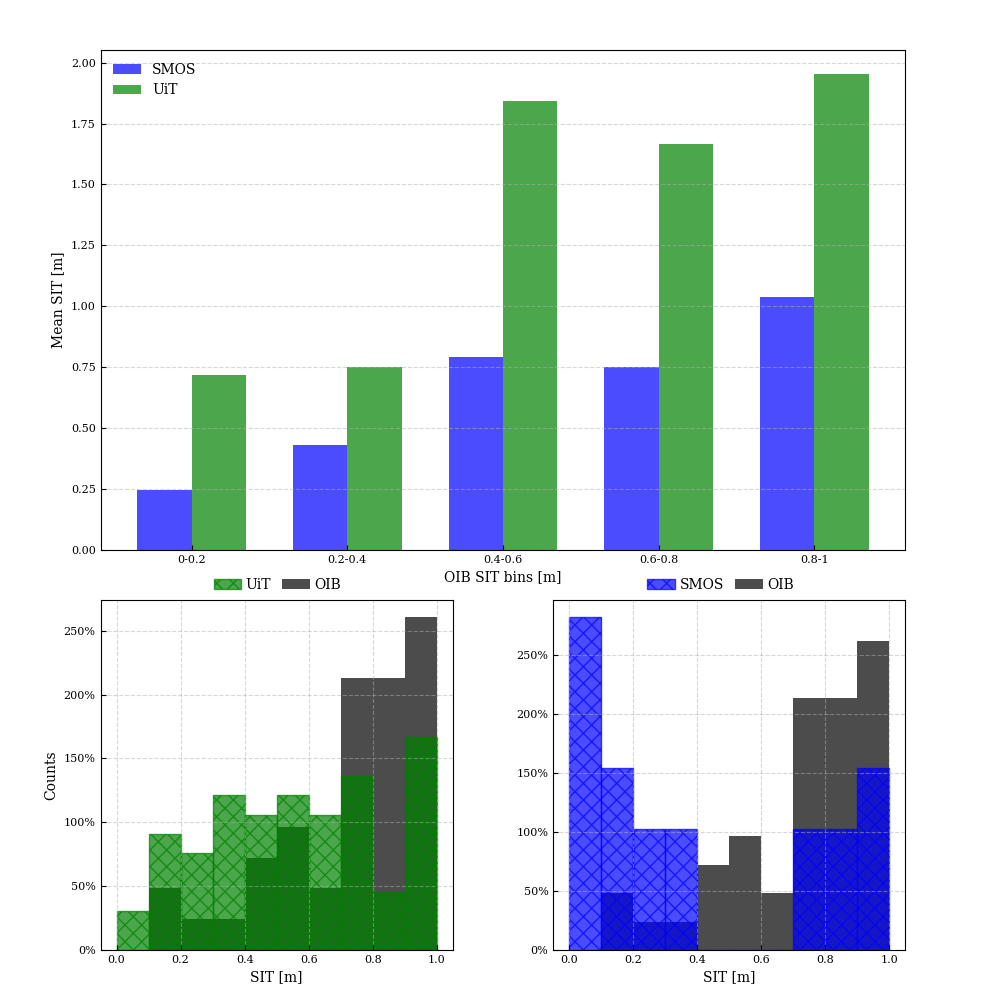
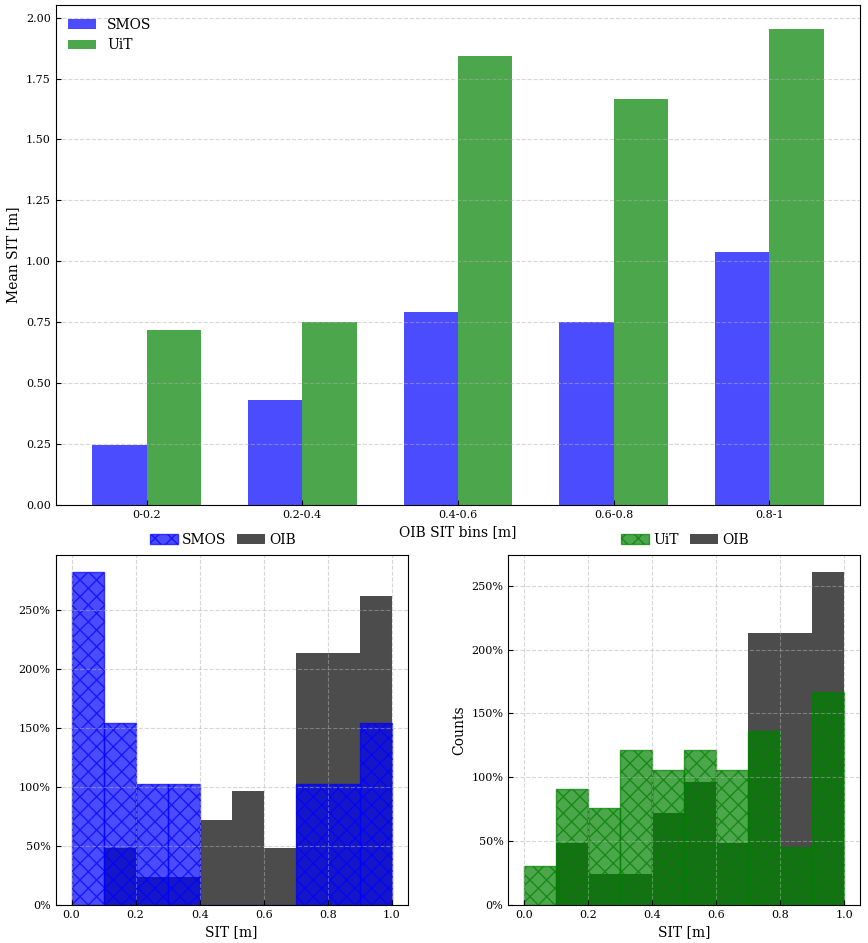
update of box scatter plot and histogram/bar

diff --git a/Data processing/Code/test/test_oib.py b/Data processing/Code/test/test_oib.py
@@ -399,16 +399,17 @@ def histogram_oib(data):
 def plot_sit(data, cryo_lat, cryo_lon):
 	oib_sit = data['oib']
 	
-	all_sit = np.concatenate(oib_sit)
-	
+	all_sit = oib_sit.flatten()
+	mask = (all_sit >= 0) & (all_sit <= 1)
+	all_sit = all_sit[mask]
 	plt.figure(figsize=(10, 6))
 	plt.hist(all_sit, bins=50, label='OIB SIT', color='black', alpha=0.7)
-	plt.axvspan(0, 1, color='red', alpha=0.3, label='Area of interest (0-1 m)')
+	#plt.axvspan(0, 1, color='red', alpha=0.3, label='Area of interest (0-1 m)')
 	plt.tick_params(axis='both', direction='in')
 	plt.xlim(0, 15)
 	plt.xlabel('Sea Ice Thickness (m)')
 	plt.ylabel('Observations (counts)')
-	plt.title('filtered OIB Sea Ice Thickness (25km grid)')
+	plt.title('filtered OIB + Quicklook SIT (25km grid)')
 	plt.legend()
 	plt.grid()
 	plt.show()
@@ -428,10 +429,13 @@ def plot_sit(data, cryo_lat, cryo_lon):
 				   linewidth=0.5,alpha=0.5,zorder=4)
 	ax.add_feature(cfeature.COASTLINE,color="black",linewidth=0.1,zorder=5)
 	ax.gridlines(draw_labels=True, color="dimgray", zorder=7)
- 
-	oib_sit = oib_sit.reshape(cryo_lat.shape)
-	mesh=ax.pcolormesh(cryo_lon, cryo_lat, all_sit, transform=ccrs.PlateCarree(), cmap='viridis', zorder=6)
-	plt.colorbar(mesh, ax=ax, label='Sea Ice Thickness (m)')
+	
+	cryo_lon = np.array(cryo_lon)
+	cryo_lat = np.array(cryo_lat)
+	#mesh=ax.pcolormesh(cryo_lon, cryo_lat, oib_sit, transform=ccrs.PlateCarree(), cmap='viridis', zorder=6)
+	#plt.colorbar(mesh, ax=ax, label='Sea Ice Thickness (m)')
+	scatter = ax.scatter(cryo_lon, cryo_lat, c=oib_sit, cmap='viridis', s=1, transform=ccrs.PlateCarree(), zorder=6)
+	plt.colorbar(scatter, ax=ax, label='Sea Ice Thickness (m)')
 	plt.title('OIB Sea Ice Thickness (25km grid)')
 	plt.show()
 	
@@ -502,25 +506,24 @@ def bar_hist_plot(data):
 	#oib_m_smos = oib_smos[range_mask_smos]
 	bin_edges=np.linspace(0,1,11)
  
-	# --- Bottom left plot: Histogram OIB vs Cryo ---
-	ax_left.hist(oib_m, bins=bin_edges, alpha=0.7, label='OIB', color='black', density=True)
-	ax_left.hist(cryo_m, bins=bin_edges, edgecolor='green', color="green", fill=True, linewidth=1, hatch='xx', alpha=0.7, label='UiT', density=True)
-	ax_left.tick_params(axis='both', direction='in')
-	ax_left.set_xlabel('SIT [m]')
-	ax_left.set_ylabel('Counts')
-	ax_left.yaxis.set_major_formatter(PercentFormatter(1))
-	ax_left.grid(alpha=0.5, linestyle='--')
-	ax_left.legend(loc='upper center', bbox_to_anchor=(0.5, 1.08), ncol=2, mode="expand", borderaxespad=0.0, handletextpad=0.3, frameon=False) 
-	
-
-	# --- Bottom right plot: Histogram OIB vs SMOS ---
+	# --- Bottom right plot: Histogram OIB vs Cryo ---
 	ax_right.hist(oib_m, bins=bin_edges, alpha=0.7, label='OIB', color='black', density=True)
-	ax_right.hist(smos_m, bins=bin_edges, edgecolor='blue', color="blue", fill=True, linewidth=1, hatch='xx', alpha=0.7, label='SMOS', density=True)
-	ax_right.set_xlabel('SIT [m]')
+	ax_right.hist(cryo_m, bins=bin_edges, edgecolor='green', color="green", fill=True, linewidth=1, hatch='xx', alpha=0.7, label='UiT', density=True)
 	ax_right.tick_params(axis='both', direction='in')
+	ax_right.set_xlabel('SIT [m]')
+	ax_right.set_ylabel('Counts')
 	ax_right.yaxis.set_major_formatter(PercentFormatter(1))
 	ax_right.grid(alpha=0.5, linestyle='--')
-	ax_right.legend(loc='upper center', bbox_to_anchor=(0.5, 1.08), ncol=2, mode="expand", borderaxespad=0.0, handletextpad=0.3, frameon=False)
+	ax_right.legend(loc='upper center', bbox_to_anchor=(0.5, 1.08), ncol=2, mode="expand", borderaxespad=0.0, handletextpad=0.3, frameon=False) 
+	
+	# --- Bottom left plot: Histogram OIB vs SMOS ---
+	ax_left.hist(oib_m, bins=bin_edges, alpha=0.7, label='OIB', color='black', density=True)
+	ax_left.hist(smos_m, bins=bin_edges, edgecolor='blue', color="blue", fill=True, linewidth=1, hatch='xx', alpha=0.7, label='SMOS', density=True)
+	ax_left.set_xlabel('SIT [m]')
+	ax_left.tick_params(axis='both', direction='in')
+	ax_left.yaxis.set_major_formatter(PercentFormatter(1))
+	ax_left.grid(alpha=0.5, linestyle='--')
+	ax_left.legend(loc='upper center', bbox_to_anchor=(0.5, 1.08), ncol=2, mode="expand", borderaxespad=0.0, handletextpad=0.3, frameon=False)
 
 	plt.show()
 	
@@ -541,10 +544,13 @@ def box_plot(data):
 	cryo = cryo_sit.flatten()
 
 	# Handle NaNs
-	valid_mask = ~np.isnan(oib) & ~np.isnan(cryo) & ~np.isnan(smos)
-	oib, cryo, smos = oib[valid_mask], cryo[valid_mask], smos[valid_mask]
+	nan_mask = ~np.isnan(oib) & ~np.isnan(smos) & ~np.isnan(cryo)
+	oib, smos, cryo = [arr[nan_mask] for arr in (oib, smos, cryo)]
 	
 	#smos_mask = (smos >= 0) & (smos <= 1)
+	#cryo_mask = (cryo >= 0) & (cryo <= 1.4)
+	#cryo = cryo[cryo_mask]
+	#oib_c = oib[cryo_mask]
 	#smos = smos[smos_mask]
 	#oib_smos = oib[smos_mask]
  
@@ -553,6 +559,7 @@ def box_plot(data):
 	for i in range(len(bins) - 1):
 		bin_mask = (oib >= bins[i]) & (oib < bins[i + 1])
 		#bin_mask_smos = (oib_smos >= bins[i]) & (oib_smos < bins[i+1])
+		#bin_mask_cryo = (oib_c >= bins[i]) & (oib_c < bins[i + 1])
 		binned_oib_cryo_data.append(cryo[bin_mask])
 		binned_oib_smos_data.append(smos[bin_mask])
   
@@ -565,25 +572,32 @@ def box_plot(data):
 	ax2 = fig.add_axes([2 * gap + box_width, 0.2, box_width, 0.6])
 
 	# Left box plot
-	ax1.boxplot(binned_oib_cryo_data, labels = bin_labels, medianprops=dict(color='black'), patch_artist=True, showfliers=False, boxprops=dict(facecolor='lightgray', alpha=0.6))
+	ax1.boxplot(binned_oib_cryo_data, labels = bin_labels, medianprops=dict(color='black'), meanprops=dict(color="#f7022a"), showmeans=True, meanline=True, patch_artist=True, showfliers=False, boxprops=dict(facecolor='lightgray', alpha=0.6))
+	ax1.plot([], [], "--", linewidth=1, color = "#f7022a", label = "Mean")
+	ax1.plot([], [], "-", linewidth=1, color = "black", label = "Median")
+ 
 	# scatter 
 	for i, data in enumerate(binned_oib_cryo_data):
 		x = np.random.normal(i + 1, 0.05, size=len(data))
-		ax1.scatter(x, data, color='green', alpha=0.7, label='UiT', edgecolor="none", linewidth=0.)
+		ax1.scatter(x, data, color='green', alpha=0.7, edgecolor="none", linewidth=0.)
 	ax1.set_ylabel('UiT SIT [m]')
 	ax1.set_xlabel('OIB SIT bins [m]')
 	ax1.tick_params(axis='both', direction='in')
+	ax1.legend(frameon=False, loc='upper left', bbox_to_anchor=(0.0, 1.08), ncol=2, borderaxespad=0.0, handletextpad=0.3)
 	
 	
 	# Right box plot
 	#ax2.boxplot(binned_oib_smos_data, labels = bin_labels, medianprops=dict(color='black'), patch_artist=True, showfliers=False, boxprops=dict(facecolor='lightgray', alpha=0.6))
-	ax2.boxplot(binned_oib_smos_data, labels = bin_labels, showmeans=True, meanline=True, patch_artist=True, showfliers=False, boxprops=dict(facecolor='lightgray', alpha=0.6))
+	ax2.boxplot(binned_oib_smos_data, labels = bin_labels, medianprops=dict(color='black'), showmeans=True, meanline=True, meanprops=dict(color="#f7022a"), patch_artist=True, showfliers=False, boxprops=dict(facecolor='lightgray', alpha=0.6))
+	ax2.plot([], [], "--", linewidth=1, color = "#f7022a", label = "Mean")
+	ax2.plot([], [], "-", linewidth=1, color = "black", label = "Median")
 	for i, data in enumerate(binned_oib_smos_data):
 		x = np.random.normal(i + 1, 0.05, size=len(data))
-		ax2.scatter(x, data, color='blue', alpha=0.7, label='SMOS', edgecolor="none", linewidth=0.)
+		ax2.scatter(x, data, color='blue', alpha=0.7, edgecolor="none", linewidth=0.)
 	ax2.set_ylabel('SMOS SIT [m]')
 	ax2.set_xlabel('OIB SIT bins [m]')
 	ax2.tick_params(axis='both', direction='in')
+	#ax2.legend(frameon=False, loc='upper left', bbox_to_anchor=(0.5, 1.08), ncol=2, borderaxespad=0.0, handletextpad=0.3)
 
 	# Add grid lines
 	ax1.grid(axis='y', linestyle='--', alpha=0.5)
@@ -620,8 +634,9 @@ def heat_map(data):
 	plt.xlabel('OIB SIT bins [m]')
 	plt.show()
 	
-	
-
+def stat_matrics(data):
+    pass
+    
 	
 
 
@@ -636,8 +651,8 @@ if __name__ == "__main__":
 	
 	#plot_flight_paths_all(data)
 	#histogram_oib(data)
-	plot_sit(resampled_data, resampled_data['uit'][0], resampled_data['uit'][1])
+	#plot_sit(resampled_data, data['uit']['lat'], data['uit']['lon'])
  
 	#bar_hist_plot(resampled_data)
-	box_plot(resampled_data)
-	#heat_map(resampled_data)
+	#box_plot(resampled_data)
+	heat_map(resampled_data)

diff --git a/Data processing/Code/Validation code/get_operation_icebridge.py b/Data processing/Code/Validation code/get_operation_icebridge.py
@@ -242,16 +242,19 @@ def hist_cryo_smos_oib(cryo_sit, oib_sit, smos_sit):
 	smos_sit = smos_sit.flatten()
 	
 	# Create histogram
-	plt.hist(oib_sit, bins=100, alpha=0.5, color='green', label='OIB', density=True)
-	plt.hist(cryo_sit, bins=100, alpha=0.5, color='blue', label='OiB', density=True)
-	plt.hist(smos_sit, bins=100, alpha=0.5, color='red', label='SMOS', density=True)
+	mask = (oib_sit >= 0) & (oib_sit <= 1)
+	oib_sit = oib_sit[mask]
+	plt.hist(oib_sit, bins=50, label='OIB SIT', color='black', alpha=0.7)
+	#plt.hist(cryo_sit, bins=100, alpha=0.5, color='blue', label='OiB', density=True)
+	#plt.hist(smos_sit, bins=100, alpha=0.5, color='red', label='SMOS', density=True)
 	
-	# Labels and title
-	plt.xlabel("Sea Ice Thickness [m]")
-	plt.ylabel("PDF")
-	plt.title("Histogram: After Resampling")
+	plt.tick_params(axis='both', direction='in')
+	plt.xlim(0, 15)
+	plt.xlabel('Sea Ice Thickness (m)')
+	plt.ylabel('Observations (counts)')
+	plt.title('filtered OIB SIT (25km grid)')
 	plt.legend()
-	plt.grid(True, linestyle="--", alpha=0.5)
+	plt.grid()
 	plt.show()
 
 
@@ -569,11 +572,12 @@ def differences(cryo_sit, smos_sit, oib_sit):
 
 if __name__ == "__main__":
 	#plot_fligth_paths(oib_paths_2014, oib_paths_2015, oib_paths_2017)	
+	hist_cryo_smos_oib(cryo_sit, resampled_oib_sit, resampled_smos_sit)
  
  	#plot_cryo_oib(cryo_lat, cryo_lon, resampled_oib_sit, cryo_lat, cryo_lon, cryo_sit, 'CryoSat-2 vs OiB')
 	#plot_cryo_oib(cryo_lat, cryo_lon, resampled_oib_sit, cryo_lat, cryo_lon, resampled_smos_sit, 'SMOS vs OiB') 
 	#pair_scatter_plot(resampled_oib_sit, cryo_sit)
-	scatter_oib_cryo_pair(x_cryo, y_cryo, cryo_sit, resampled_oib_sit)
+	#scatter_oib_cryo_pair(x_cryo, y_cryo, cryo_sit, resampled_oib_sit)
 	
  	#hist_cryo_smos_oib(cryo_sit, resampled_oib_sit, resampled_smos_sit)
 	#boxplot(cryo_sit, resampled_smos_sit, resampled_oib_sit)
